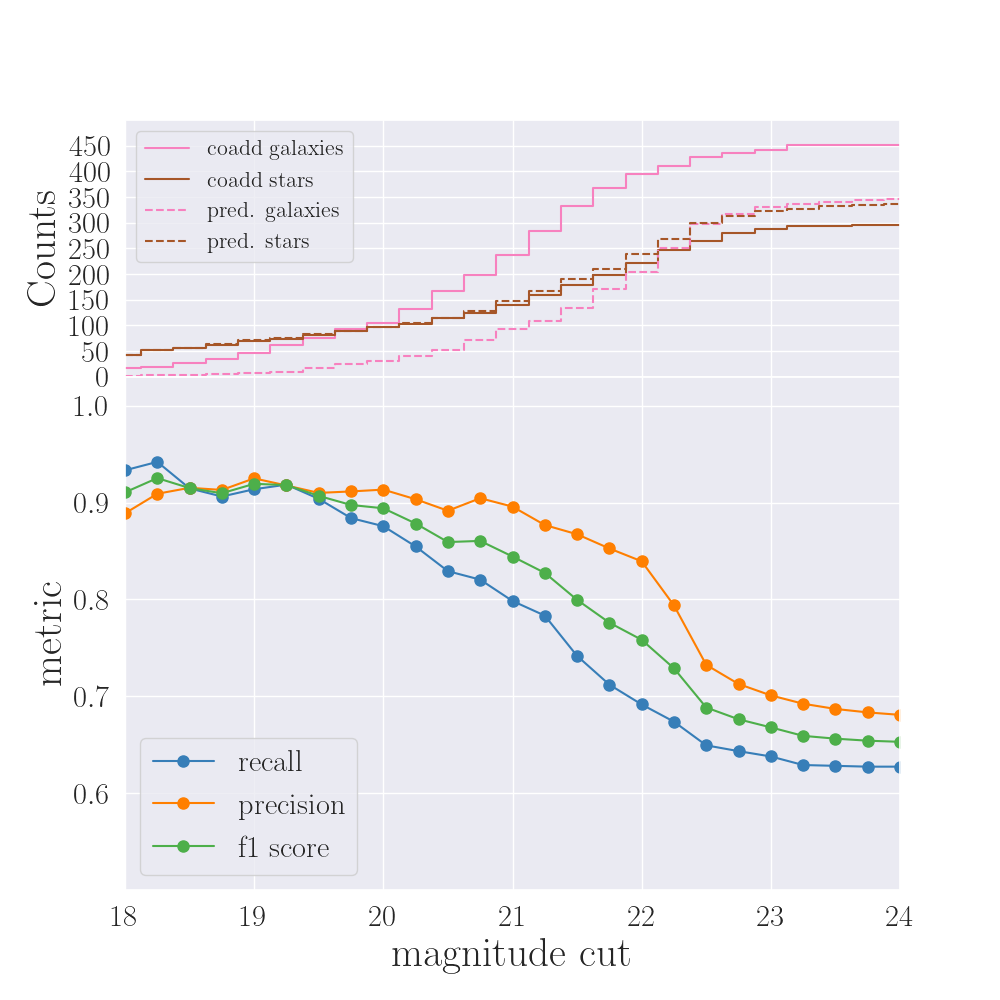
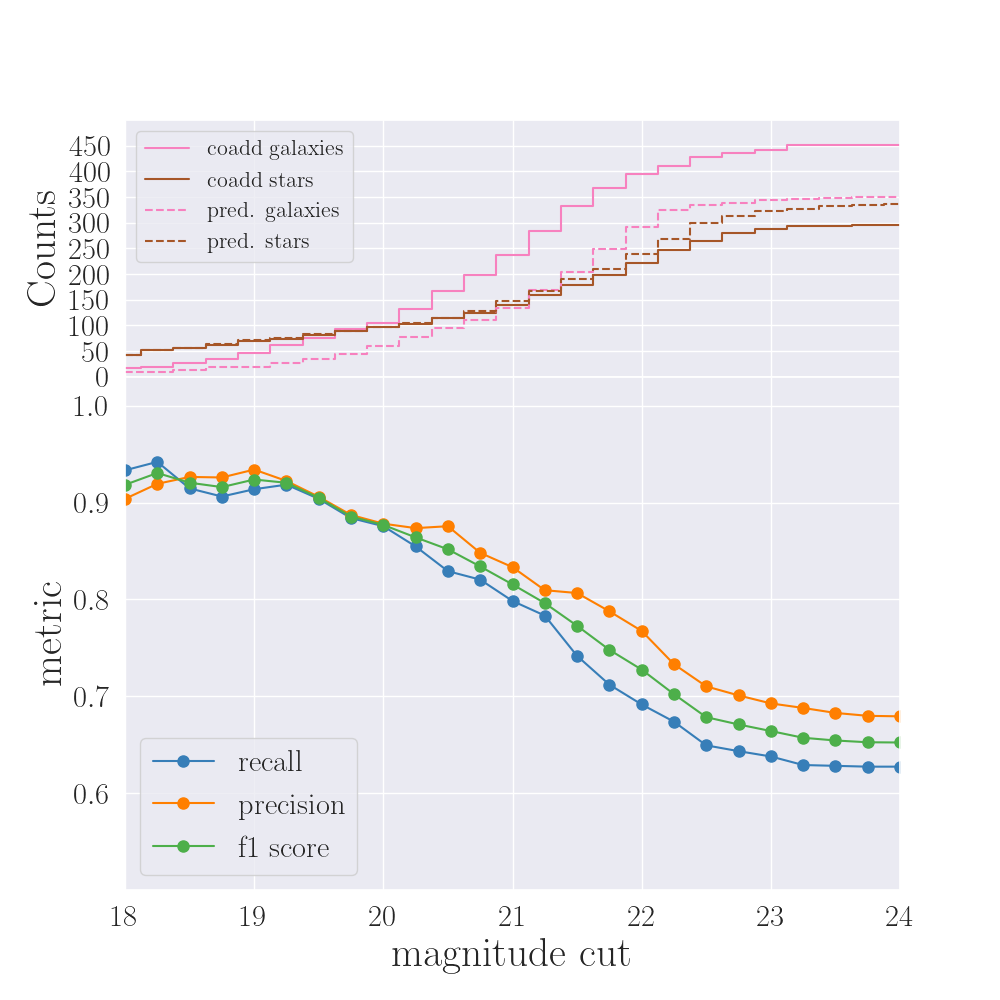
correct photo frame flux calculation

diff --git a/bliss/datasets/sdss.py b/bliss/datasets/sdss.py
@@ -142,11 +142,14 @@ class PhotoFullCatalog(FullCatalog):
         thing_id = column_to_tensor(po_fits, "thing_id")
         ras = column_to_tensor(po_fits, "ra")
         decs = column_to_tensor(po_fits, "dec")
-        fluxes = column_to_tensor(po_fits, "psfflux")
-        mags = column_to_tensor(po_fits, "psfmag")
         galaxy_bools = (objc_type == 3) & (thing_id != -1)
         star_bools = (objc_type == 6) & (thing_id != -1)
-
+        star_fluxes = column_to_tensor(po_fits, "psfflux") * star_bools.reshape(-1, 1)
+        star_mags = column_to_tensor(po_fits, "psfmag") * star_bools.reshape(-1, 1)
+        galaxy_fluxes = column_to_tensor(po_fits, "cmodelflux") * galaxy_bools.reshape(-1, 1)
+        galaxy_mags = column_to_tensor(po_fits, "cmodelmag") * galaxy_bools.reshape(-1, 1)
+        fluxes = star_fluxes + galaxy_fluxes
+        mags = star_mags + galaxy_mags
         keep = galaxy_bools | star_bools
         galaxy_bools = galaxy_bools[keep]
         star_bools = star_bools[keep]
